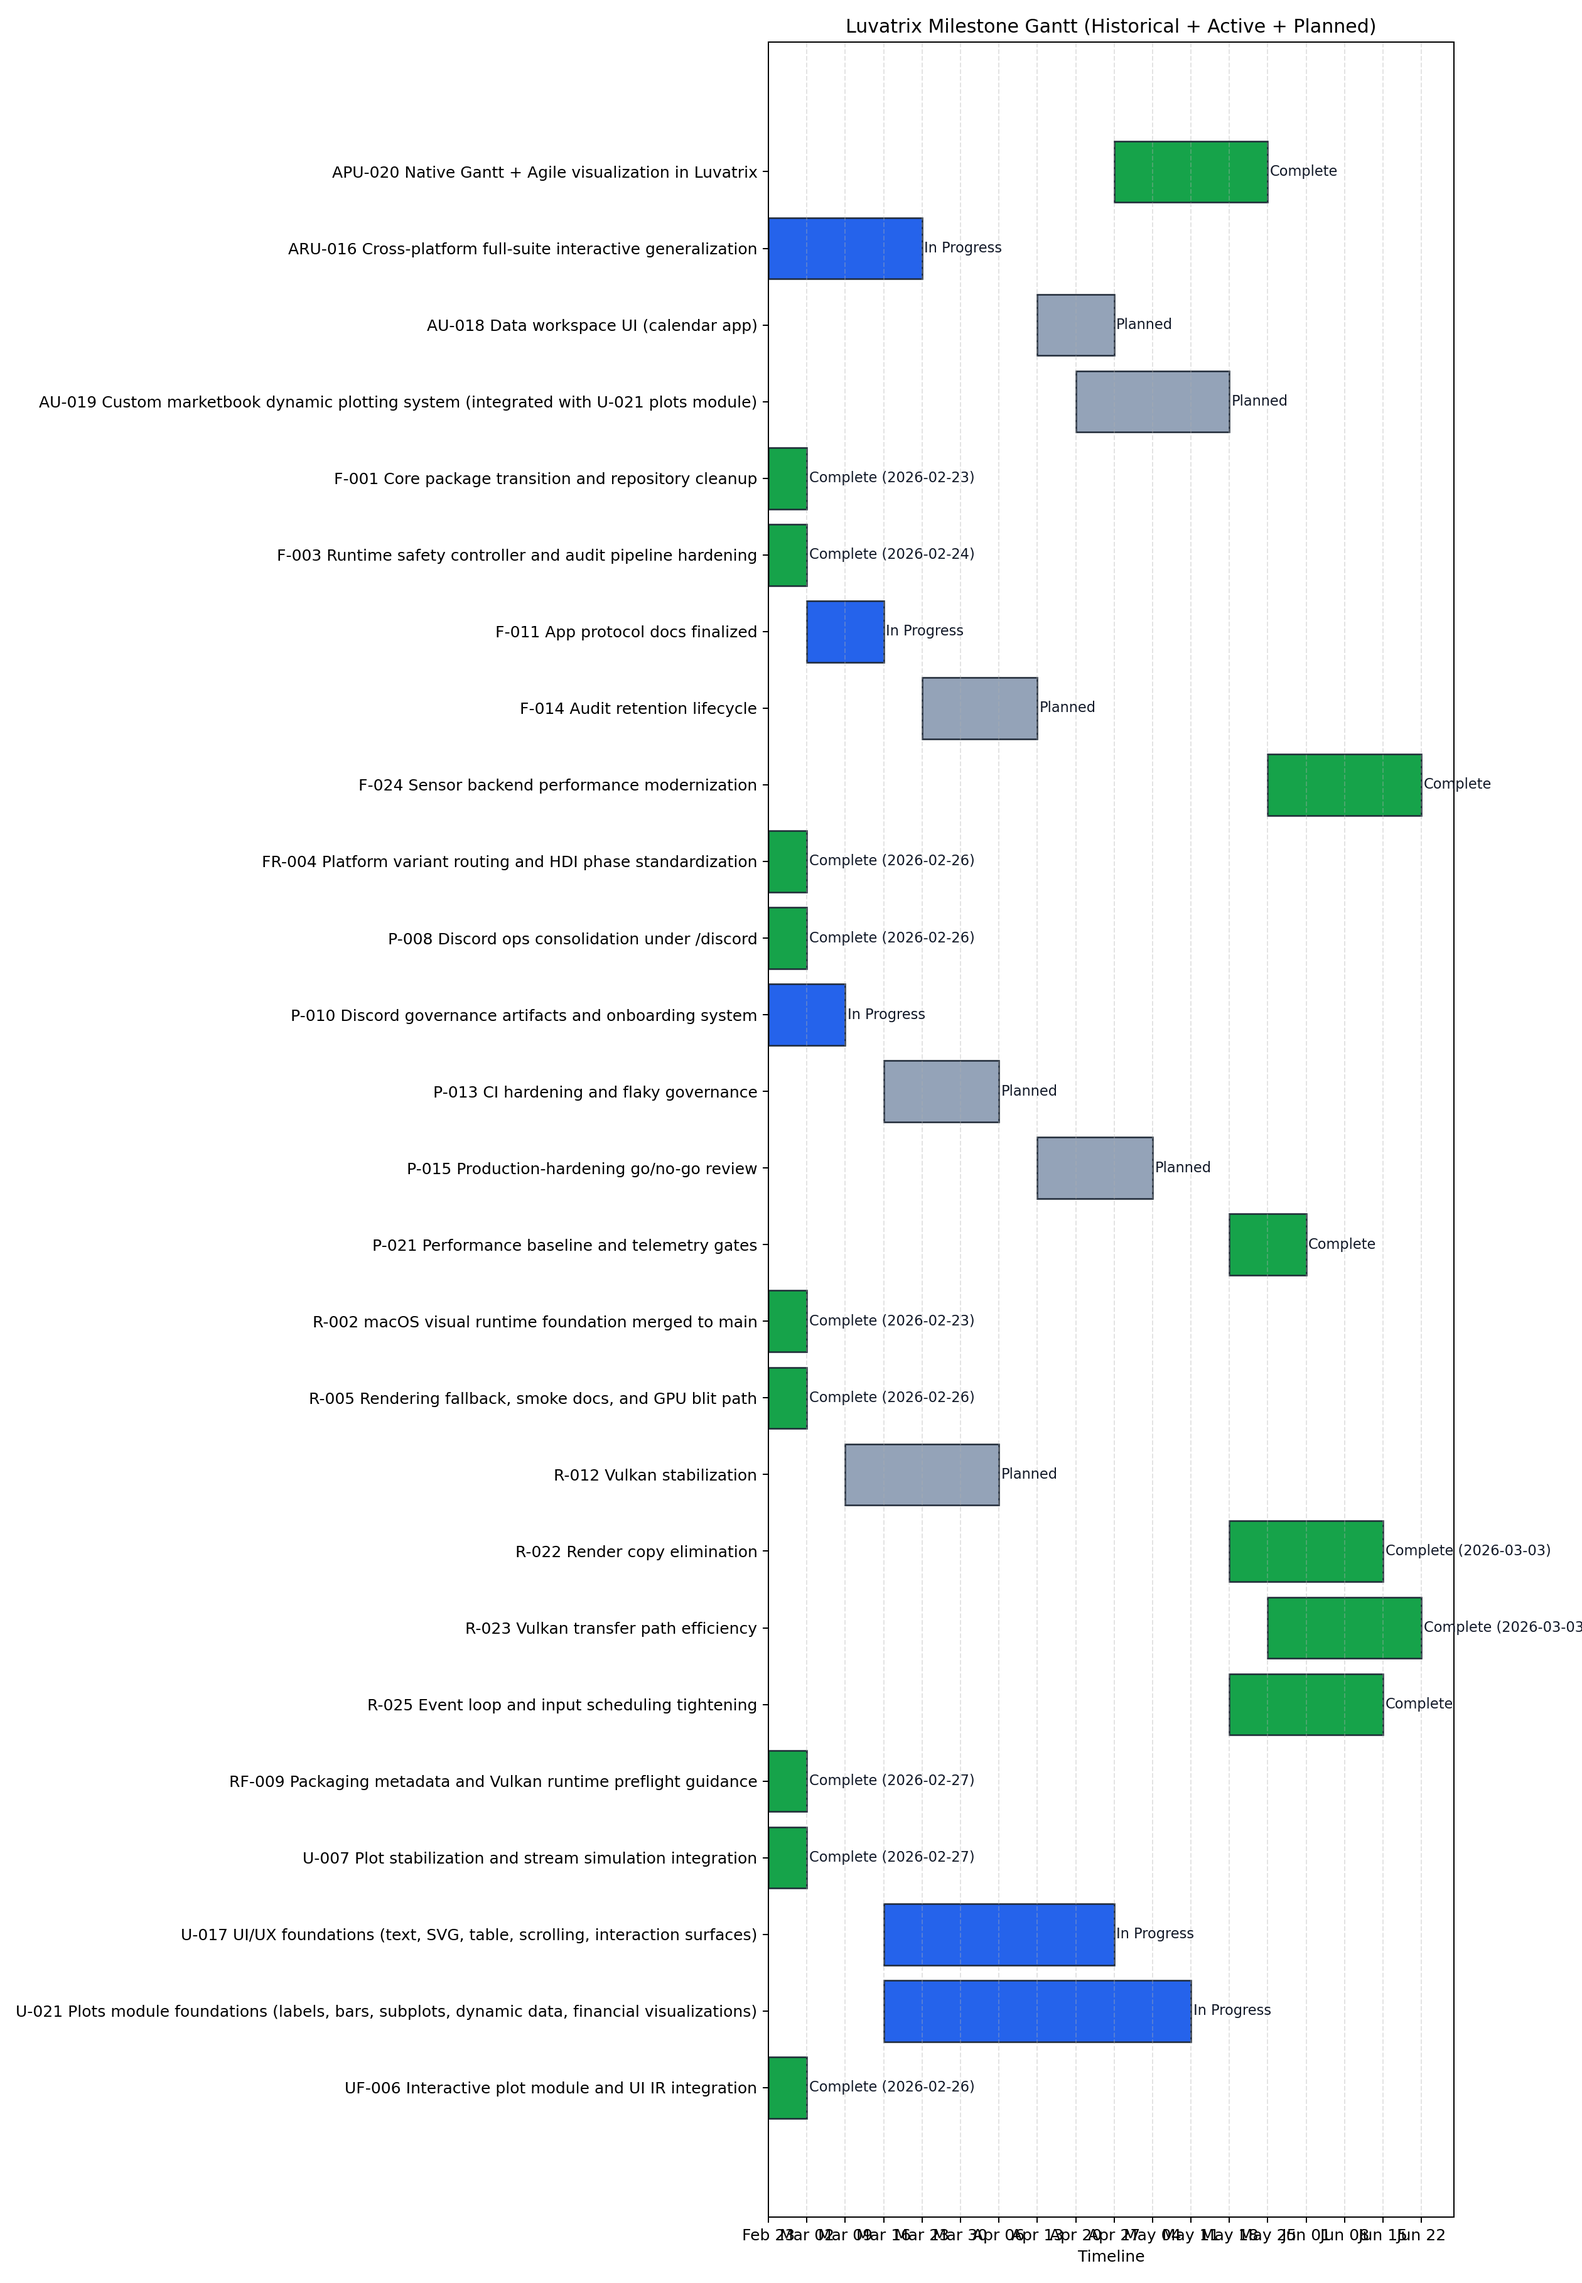
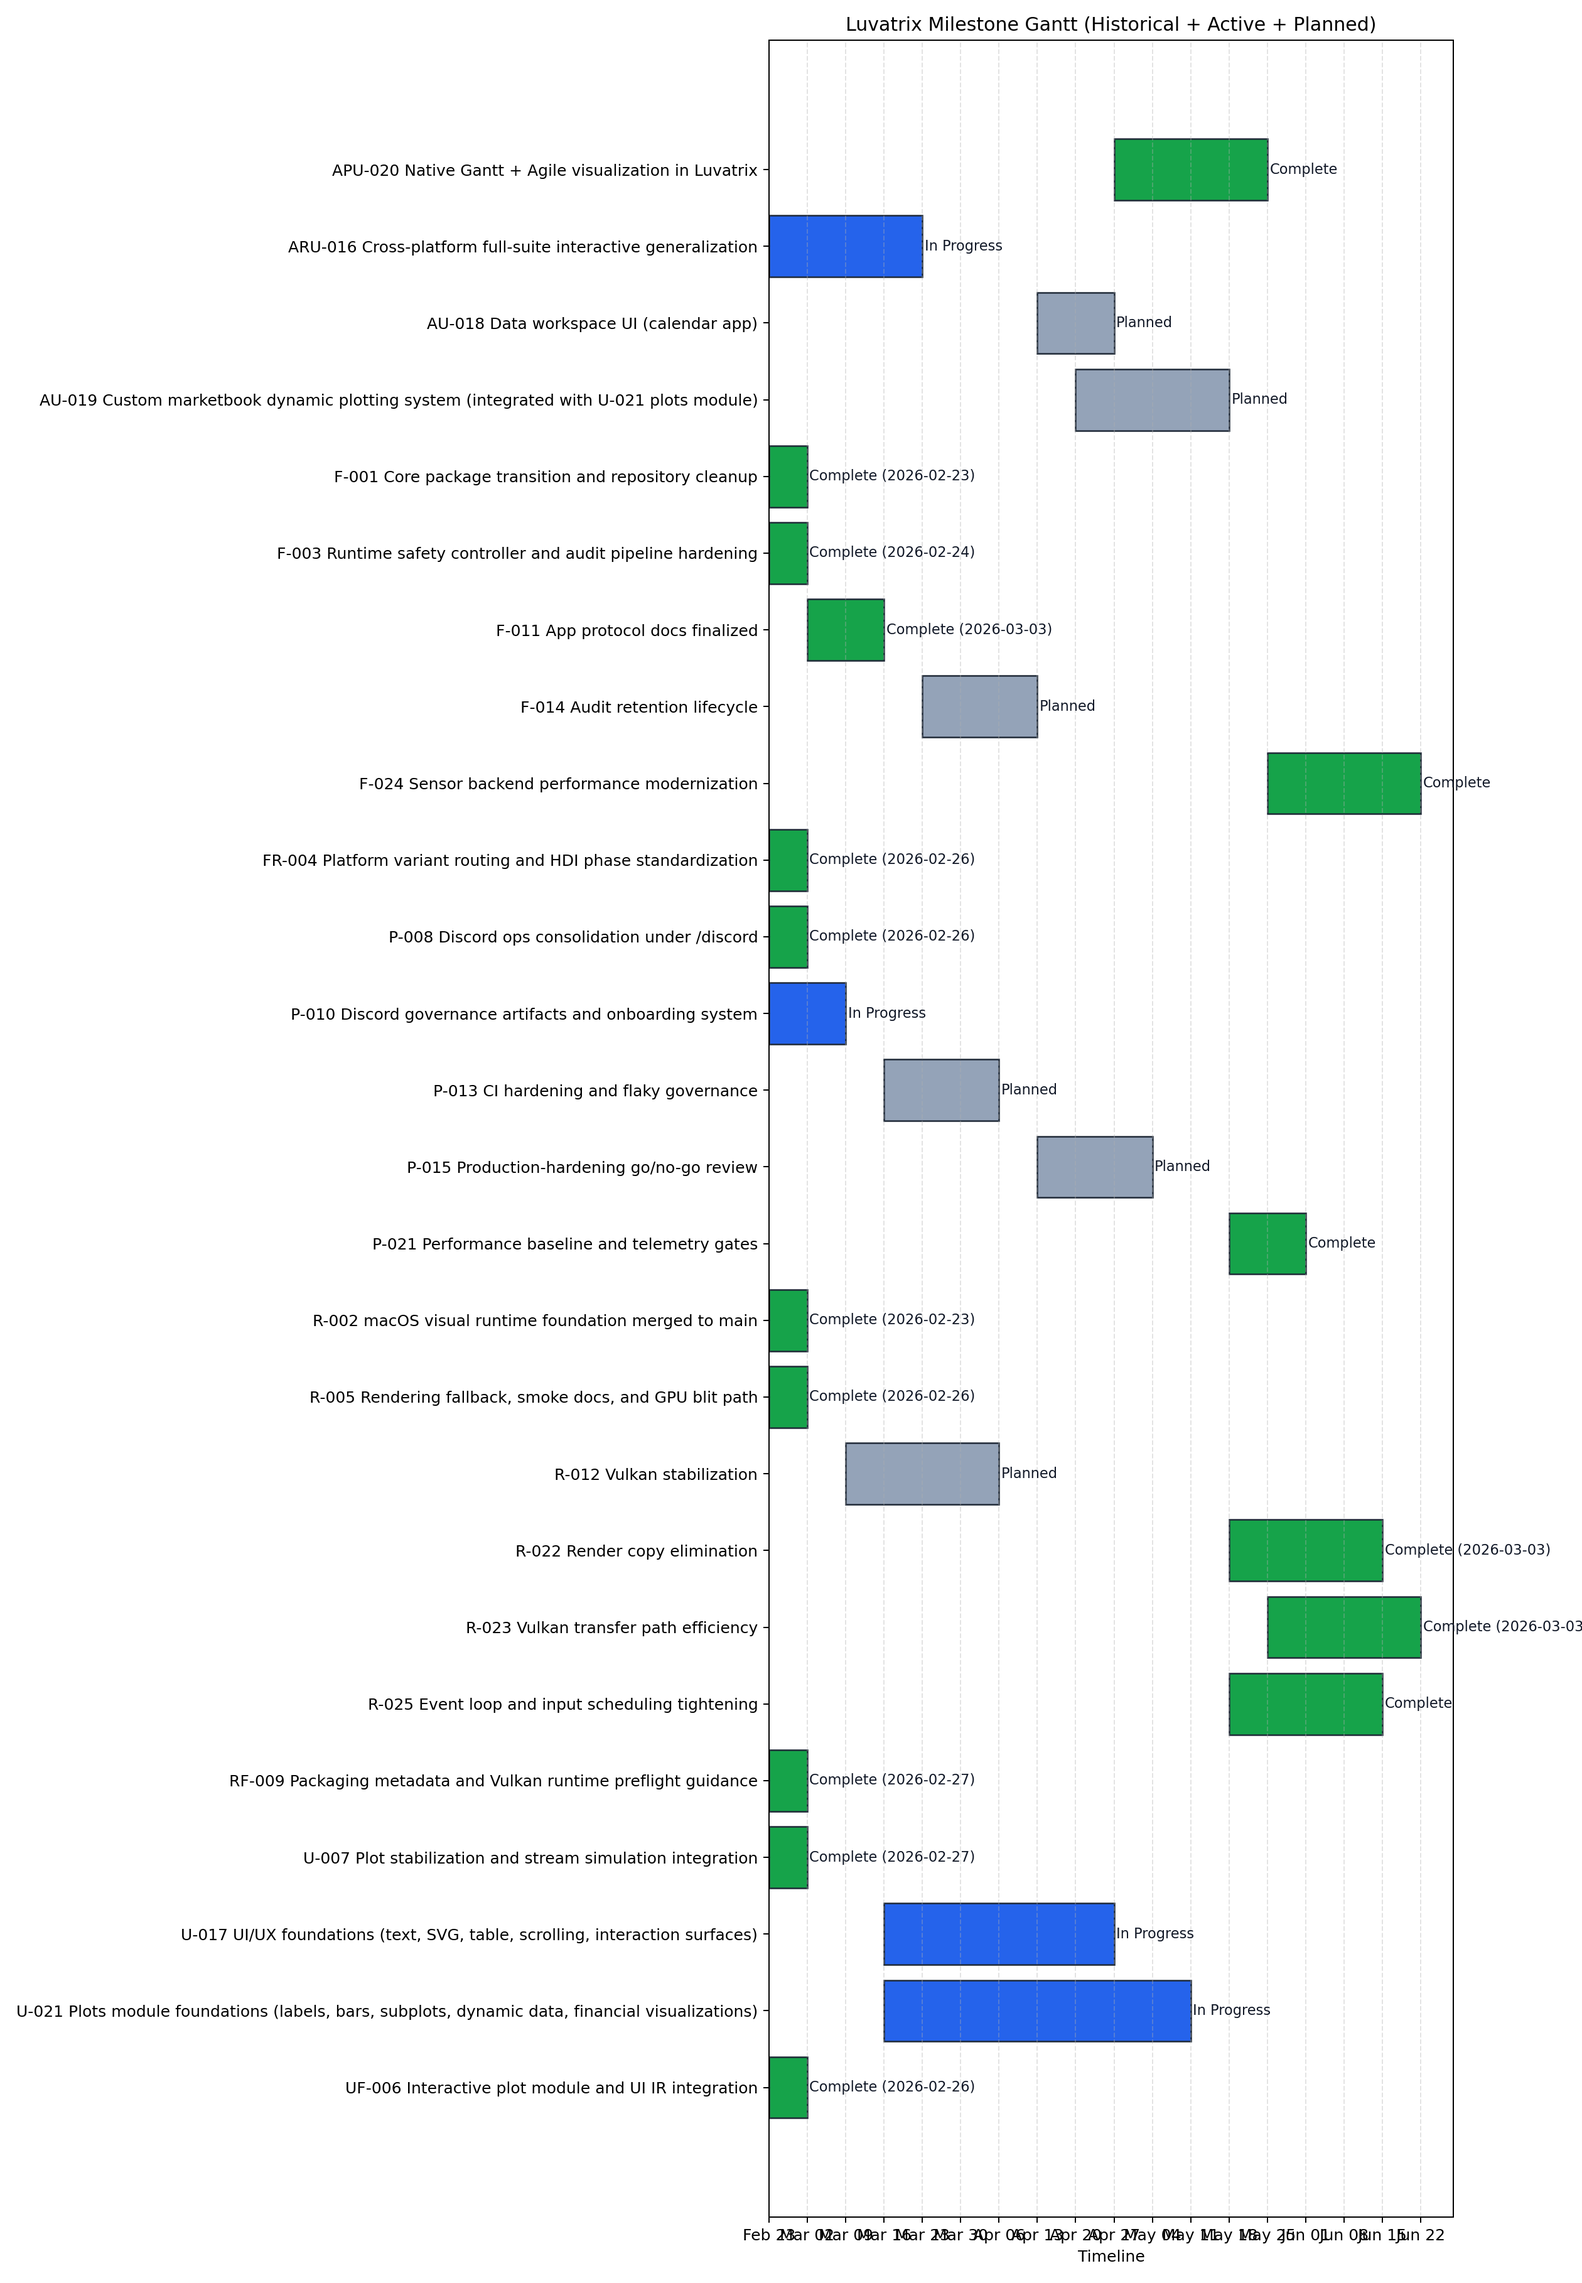
planning(f-011): mark milestone complete and record closure lifecycle

diff --git a/ops/planning/gantt/milestones_gantt.md b/ops/planning/gantt/milestones_gantt.md
@@ -12,7 +12,7 @@ AU-018 🗓 Data workspace UI (calendar app)                                 
 AU-019 📈 Custom marketbook dynamic plotting system (integrated with U-021 plots module)            |                                                        ~~~~~~~~~~~~~~~~~~~~~~~~~~~~                                   | Planned
 F-001 🧬 Core package transition and repository cleanup                                             |=======                                                                                                                | Complete (2026-02-23)
 F-003 ⚡ Runtime safety controller and audit pipeline hardening                                     |=======                                                                                                                | Complete (2026-02-24)
-F-011 📜 App protocol docs finalized                                                                |       ##############                                                                                                  | In Progress
+F-011 📜 App protocol docs finalized                                                                |       ==============                                                                                                  | Complete (2026-03-03)
 F-014 🛡 Audit retention lifecycle                                                                 |                            ~~~~~~~~~~~~~~~~~~~~~                                                                      | Planned
 F-024 🛰 Sensor backend performance modernization                                                  |                                                                                           ============================| Complete
 FR-004 🧭 Platform variant routing and HDI phase standardization                                    |=======                                                                                                                | Complete (2026-02-26)
@@ -97,13 +97,15 @@ Legend: '=' Complete, '#' In Progress, '~' Planned, '!' At Risk, 'x' Blocked
   - 2026-02-24 closed (framework=legacy-kanban) - historical completion
 
 ### F-011 📜 App protocol docs finalized
-- Status: In Progress
+- Status: Complete
 - Target window: Week 2-3
+- Completed on: 2026-03-03
 - Tasks: `T-201, T-202, T-203, T-204, T-205, T-206, T-207, T-208, T-209, T-210, T-211, T-212, T-213, T-214, T-215, T-216, T-217, T-218, T-219, T-2701, T-2702, T-2703`
 - Lifecycle events:
   - 2026-03-03 closed (framework=kanban_v1) - documentation sprint closed
   - 2026-03-03 reopened (framework=gateflow_v1) - reopened for GateFlow-aligned continuation
   - 2026-03-03 reopened (framework=gateflow_v1) - performance follow-up scope opened for incremental present and sensor/runtime semantics
+  - 2026-03-03 closed (framework=gateflow_v1) - follow-up scope complete; tasks T-2701/T-2702/T-2703 done and merged to main
 
 ### F-014 🛡 Audit retention lifecycle
 - Status: Planned
